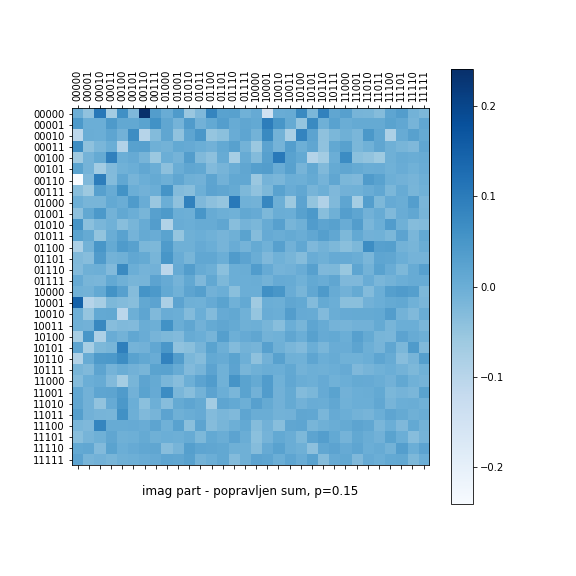
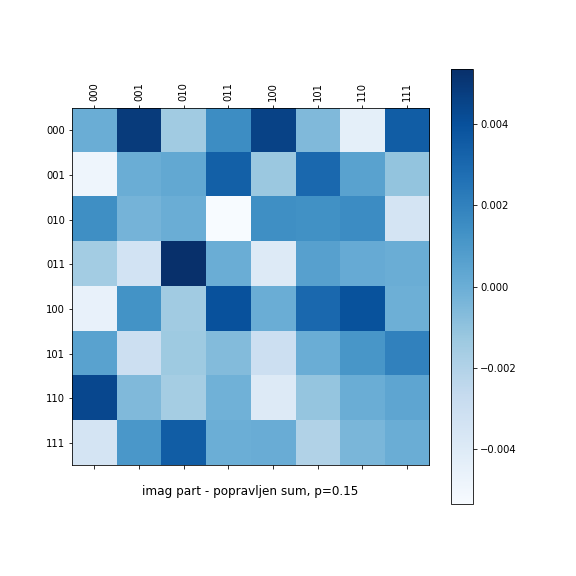
radi tomografiju 100 random kola i racuna njihov fidelity

diff --git a/randomKola/nasa-tomografija-pokusaj-random-stanja-1.py b/randomKola/nasa-tomografija-pokusaj-random-stanja-1.py
@@ -1,0 +1,205 @@
+import numpy as np
+import itertools
+import qiskit 
+from qiskit import QuantumRegister, QuantumCircuit,ClassicalRegister, QuantumCircuit,execute
+from qiskit import Aer
+import qiskit.ignis.verification.tomography as tomo
+import math
+import matplotlib.pyplot as plt
+import random
+import matplotlib as mpl
+from qiskit.providers.aer.noise import NoiseModel
+from qiskit.providers.aer.noise.errors import pauli_error
+import qiskit.quantum_info
+from qiskit.ignis.mitigation.measurement import (complete_meas_cal,CompleteMeasFitter)
+
+#fig, ax = plt.subplots(figsize=(0.5,8))
+#fig.subplots_adjust()
+cmap = mpl.cm.cool
+norm = mpl.colors.Normalize(vmin=-0.1, vmax=0.5)
+
+#fig.colorbar(mpl.cm.ScalarMappable(norm=norm, cmap=cmap),
+             #cax=ax, orientation='vertical')
+from scipy.linalg import sqrtm
+def fidelity(rho1,rho2):
+    a=np.matmul(rho2,sqrtm(rho1))
+    b=np.matmul(sqrtm(rho1),a)
+    c=sqrtm(b)
+    tr = 0
+    for i in range(8):
+        tr+=c[i][i]
+    return(tr**2)
+def get_noise(p):
+    error_meas = pauli_error([('X',p), ('I', 1 - p)])
+    noise_model = NoiseModel()
+    noise_model.add_all_qubit_quantum_error(error_meas, "measure") # measurement error is applied to measurements        
+    return noise_model
+
+
+n=3
+#broj single qubit kapija
+n_s=10
+#broj multi qubit kapija
+n_m=4
+#sum
+noise_model = get_noise(0.15)
+
+
+#kombinacija svih parametra, tip niz nizova intova
+def parametri(N):   
+    res =[ ele for ele in itertools.product([0,1,2,3], repeat = N)]
+    return res
+par=parametri(n)
+
+#fje za merenje u osama x i y
+def merX(kpom,i):
+    kpom.h(i)
+    return kpom
+def merY(kpom,i):
+    kpom.s(i)
+    kpom.h(i)
+    return kpom
+
+#fja koj dodaje random kapije na kolo 
+def randomCirc(circ_list, n, n_single_qubit_gate, n_two_qubit_gate):
+    niz=n_single_qubit_gate*[1] + n_two_qubit_gate*[2]
+    random.shuffle(niz)
+    for i in range(n_single_qubit_gate+n_two_qubit_gate):
+        if niz[i]==1:
+            qubit=random.randint(0, n-1)
+            gate=random.randint(0,2)
+            if gate==0:
+                for circ in circ_list:
+                    circ.h(qubit)
+            if gate==1:
+                for circ in circ_list:
+                    circ.s(qubit)
+            if gate==2:
+                for circ in circ_list:
+                    circ.t(qubit)
+        if niz[i]==2:
+            two_qubits=random.sample(range(0, n), 2)
+            for circ in circ_list:
+                circ.cx(two_qubits[0], two_qubits[1])
+#Ova funkcija definise da li je u sumi svih verovatnoca + ili -
+#prva lista ima predsstavlja indekse parametra, a drugi koja je kombinacija 0 i 1
+def znak(i,s):
+    rez=1
+    for j in range(n):
+        if s[j]=='1':
+            rez*=-1
+    return rez
+
+def plotMapu(matrica, naslov):
+    fig, ax = plt.subplots(figsize=(8,8))
+    cm=ax.matshow(matrica, cmap=plt.cm.Blues)
+    no_labels = len(matrica) # how many labels to see on axis x
+    positions = np.arange(0,no_labels) # pixel count at label position
+    labels = stanjastring # labels you want to see
+    plt.xticks(positions, labels,rotation=90)
+    plt.yticks(positions, labels)
+    fig.colorbar(cm)#,mpl.cm.ScalarMappable(norm=norm, cmap=cm), orientation='vertical')
+    plt.title(naslov,y=-0.1)
+
+nizFid=[]
+for abc in range(100):
+    print(abc)
+    #ovde unosimo gejtove
+    q=[]
+    c=[]
+    wKolo=[]
+    
+    # sad jednostavno zelim da budu svi isti gejtovi
+    for i in range(4**n):
+        q.append(QuantumRegister(n))
+        c.append(ClassicalRegister(n))
+        wKolo.append(QuantumCircuit(q[i],c[i]))
+    randomCirc(wKolo,n,n_s,n_m)
+    for i in range(4**n):
+        wKolo[i].barrier()
+    
+    
+    
+    result = execute(wKolo[0], Aer.get_backend('statevector_simulator')).result()
+    psi  = result.get_statevector(wKolo[0])
+    psik=np.zeros((2**n,1),dtype=np.complex_)
+    for i in range(len(psi)):
+        psik[i][0]=np.conj(psi[i])
+    mat=np.outer(psi,psik)
+    pokusaj=qiskit.quantum_info.DensityMatrix(psi).data
+    
+    #dodajemo merenja na svaki nacin
+    for i in range(4**n):
+        for j in range(n):
+            if par[i][j]==1:
+                merX(wKolo[i],j)
+                wKolo[i].measure(q[i][j],c[i][j])
+            if par[i][j]==2:
+                merY(wKolo[i],j)
+                wKolo[i].measure(q[i][j],c[i][j])
+            if par[i][j]==3:
+                wKolo[i].measure(q[i][j],c[i][j])
+                     
+    
+    #izvrsavamo kola
+    backend2 = Aer.get_backend('qasm_simulator')
+    job=[]
+    result=[]
+    counts=[]
+    for i in range (4**n):
+        job.append(execute(wKolo[i], backend2, shots=1000,noise_model=noise_model))
+        result.append(job[i].result())
+        counts.append(result[i].get_counts(wKolo[i]))
+    
+    
+    s= [ele for ele in itertools.product(['0','1'], repeat = n)]
+    stanjastring=[]
+    for i in s:
+        pom=''
+        pom=i[0]
+        for j in range(1,len(i)):
+            pom+=i[j]
+        stanjastring.append(pom)
+    #ovde se updejtuju countsi da tamo gde nije izmerio nista ne bude nan nego 0
+    for c in counts:
+        for red in stanjastring:
+            if (red in c)==False: 
+                c.update({red:0})
+    
+    #ovde se racunaju Stoksovi
+    S=np.zeros(4**n)
+    for p in range(4**n):
+        if p==0:
+            S[0]=1
+        else:
+            for j in range(2**n):
+                S[p]+=znak(par[p],s[j])*counts[p][stanjastring[j]]/1000
+                #S[p]=round(S[p],2)#ovde sam kao uzela da zaokruzim stoksove par, nemamm pojma koliko je to pametno tako da se radi
+    
+    # ovde za tenzorski se isto menja
+    j = complex(0,1)
+    matrica = [[[1,0],[0,1]],[[0,1],[1,0]],[[0,-j],[j,0]],[[1,0],[0,-1]]]
+    tenzorski=[]
+    for red in par:
+        tenzorski.append(np.kron(matrica[red[2]],np.kron(matrica[red[1]],matrica[red[0]])))
+    densityMatrix=np.zeros((2**n,2**n),dtype=np.complex_)
+    for i in range (len(S)):
+        densityMatrix+=np.dot(S[i],tenzorski[i])
+    
+    densityMatrix=np.dot(1/(2**n),densityMatrix)
+    densityMatrix1=np.conj(densityMatrix)
+    # plotMapu(densityMatrix.real,'real part-nasa matrica')
+    plotMapu(mat.real,'real part-sa podacima sa ibmqa')
+    #plotMapu(mat.imag,'imag part-sa podacima sa ibmqa')
+   #plotMapu(pokusaj.real,'real part-sa podacima sa ibmqa')
+    print(fidelity(densityMatrix1,mat))
+    
+    nizFid.append(fidelity(mat,densityMatrix1))
+    
+np.save('fidelityZa0.15ns=10nm=4', nizFid)
+print('Srednja vrednost je')
+print(np.mean(nizFid))
+print('Standardna devijacija je')
+print(np.std(nizFid))
+
+

diff --git a/tomografijaSaEM.py b/tomografijaSaEM.py
@@ -5,7 +5,7 @@ import matplotlib.pyplot as plt
 import scipy.linalg as la
 
 
-n=5
+n=3
 with open('random1countsp=0.15.txt') as json_file:
     counts = json.load(json_file)
 M = np.load('random1matricaMp=0.15.npy')
@@ -93,13 +93,18 @@ for p in range(4**n):
 j = complex(0,1)
 matrica = [[[1,0],[0,1]],[[0,1],[1,0]],[[0,-j],[j,0]],[[1,0],[0,-1]]]
 tenzorski=[]
+# ya 5 qubita
+# for red in par:
+#     tenzorski.append(np.kron(matrica[red[4]],np.kron(matrica[red[3]],np.kron(matrica[red[2]],np.kron(matrica[red[1]],matrica[red[0]])))))
+#ya 3 qubita
 for red in par:
-    tenzorski.append(np.kron(matrica[red[4]],np.kron(matrica[red[3]],np.kron(matrica[red[2]],np.kron(matrica[red[1]],matrica[red[0]])))))
+    tenzorski.append(np.kron(matrica[red[2]],np.kron(matrica[red[1]],matrica[red[0]])))
 
 densityMatrix=np.zeros((2**n,2**n),dtype=np.complex_)
 for i in range (len(S)):
     densityMatrix+=np.dot(S[i],tenzorski[i])
 densityMatrix=np.dot(1/(2**n),densityMatrix)
+densityMatrix=np.conj(densityMatrix)
 from scipy.linalg import sqrtm
 def fidelity(rho1,rho2):
     a=np.matmul(rho2,sqrtm(rho1))

diff --git a/randomKola.py b/randomKola.py
@@ -15,11 +15,11 @@ from qiskit.providers.aer.noise import NoiseModel
 from qiskit.providers.aer.noise.errors import pauli_error
 from qiskit.ignis.mitigation.measurement import (complete_meas_cal,CompleteMeasFitter)
 import random
-n=5
+n=3
 q=[]
 c=[]
-n_s=6
-n_m=3
+n_s=4
+n_m=2
 kolo=[]
 
 
@@ -123,7 +123,7 @@ matricaSaSumom=[]
 
 
 for i in range (4**n):
-    results = execute( kolo[i], Aer.get_backend('qasm_simulator'),shots=10000, noise_model=noise_model).result().get_counts()
+    results = execute( kolo[i], Aer.get_backend('qasm_simulator'),shots=1000, noise_model=noise_model).result().get_counts()
     counts.append(results)
     
     
